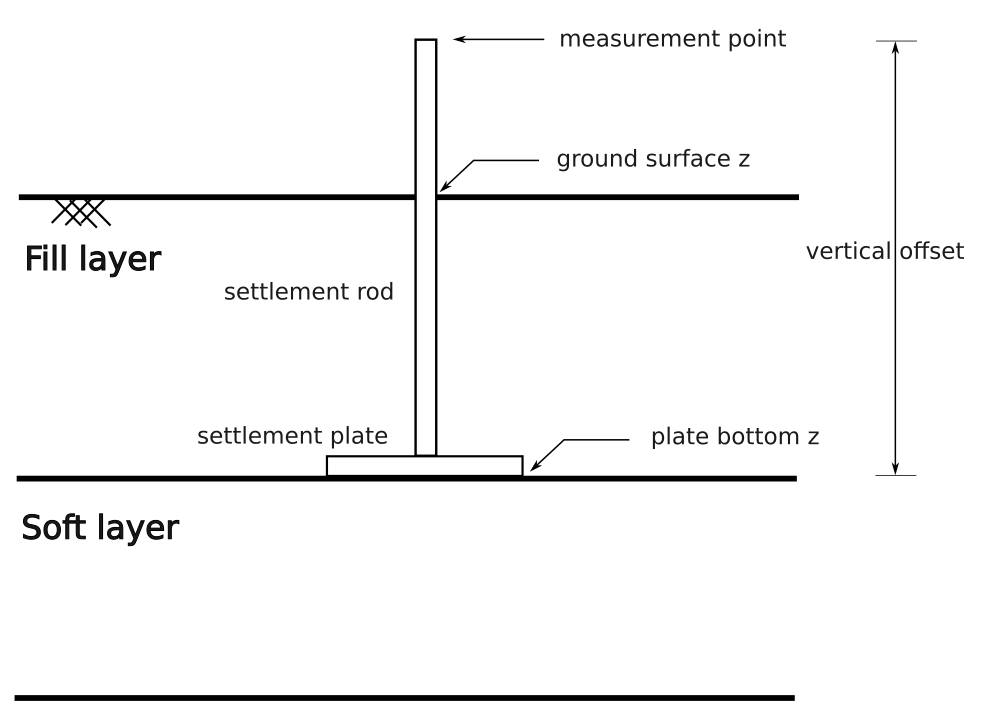
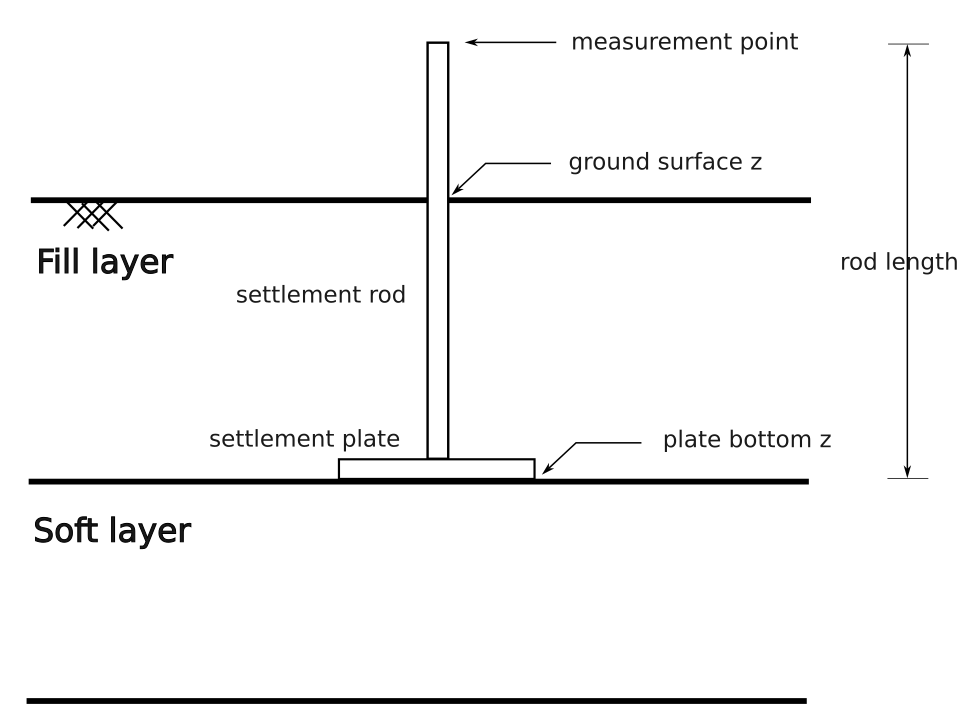
feat(settlement_rod_measurement_series): add SettlementRodMeasurementSeries class to represent a series of measurements for a single settlement rod and update docs

diff --git a/src/baec/measurements/settlement_rod_measurement_series.py b/src/baec/measurements/settlement_rod_measurement_series.py
@@ -1,0 +1,137 @@
+from __future__ import annotations
+
+from typing import List
+
+import pandas as pd
+
+from baec.measurements.settlement_rod_measurement import SettlementRodMeasurement
+
+
+class SettlementRodMeasurementSeries:
+    """
+    Represents a series of measurements for a single settlement rod.
+    """
+
+    def __init__(self, measurements: List[SettlementRodMeasurement]) -> None:
+        """
+        Initializes a SettlementRodMeasurementSeries object.
+
+        Parameters
+        ----------
+        measurements : List[SettlementRodMeasurement]
+            The list of measurements for the settlement rod.
+
+        Raises
+        ------
+        TypeError
+            If the input types are incorrect.
+        ValueError
+            If the list of measurements is empty.
+            If the measurements are not for the same project, device or object.
+        """
+
+        # Initialize all attributes using private setters.
+        self._set_measurements(measurements)
+
+    def _set_measurements(self, value: List[SettlementRodMeasurement]) -> None:
+        """Private setter for measurements attribute."""
+
+        # Check if the input is a list of SettlementRodMeasurement objects.
+        if not all(isinstance(item, SettlementRodMeasurement) for item in value):
+            raise TypeError(
+                "Expected 'List[SettlementRodMeasurement]' type for 'measurements' attribute."
+            )
+
+        # Check if the list is not empty.
+        if not value:
+            raise ValueError("Empty list not allowed for 'measurements' attribute.")
+
+        # Check that the measurements are for the same project.
+        projects = []
+        for measurement in value:
+            if measurement.project not in projects:
+                projects.append(measurement.project)
+        if len(projects) > 1:
+            raise ValueError("All measurements must be for the same project.")
+
+        # Check that the measurements are for the same device.
+        measurement_devices = []
+        for measurement in value:
+            if measurement.device not in measurement_devices:
+                measurement_devices.append(measurement.device)
+        if len(measurement_devices) > 1:
+            raise ValueError("All measurements must be for the same device.")
+
+        # Check that the measurements are for the same object.
+        object_ids = []
+        for measurement in value:
+            if measurement.object_id not in object_ids:
+                object_ids.append(measurement.object_id)
+        if len(object_ids) > 1:
+            raise ValueError("All measurements must be for the same measured object.")
+
+        # Organize the list of measurements in chronological order.
+        self._measurements = sorted(value, key=lambda x: x.date_time)
+
+    @property
+    def measurements(self) -> List[SettlementRodMeasurement]:
+        """
+        The list of measurements for the settlement rod.
+        They are organized in chronological order.
+        """
+        return self._measurements
+
+    def to_dataframe(self) -> pd.DataFrame:
+        """
+        Convert the series of measurements to a pandas DataFrame.
+
+        Returns
+        -------
+        pd.DataFrame
+            A pandas DataFrame with the measurements. The columns of the DataFrame are:
+            project_id, project_name, device_id, device_qr_code, object_id,
+            coordinate_epsg_code, date_time, x, y, z, rod_length, plate_bottom_z
+            plate_bottom_z_uncorrected, ground_surface_z, status, temperature,
+            voltage, comment.
+        """
+        # Initialize an empty DataFrame.
+        df = pd.DataFrame()
+
+        # Add columns to the DataFrame.
+        df["project_id"] = [measurement.project.id for measurement in self.measurements]
+        df["project_name"] = [
+            measurement.project.name for measurement in self.measurements
+        ]
+        df["device_id"] = [measurement.device.id for measurement in self.measurements]
+        df["device_qr_code"] = [
+            measurement.device.qr_code for measurement in self.measurements
+        ]
+        df["object_id"] = [measurement.object_id for measurement in self.measurements]
+        df["coordinate_epsg_code"] = [
+            measurement.coordinate_reference_system.to_epsg()
+            for measurement in self.measurements
+        ]
+        df["date_time"] = pd.to_datetime(
+            [measurement.date_time for measurement in self.measurements]
+        )
+        df["x"] = [measurement.x for measurement in self.measurements]
+        df["y"] = [measurement.y for measurement in self.measurements]
+        df["z"] = [measurement.z for measurement in self.measurements]
+        df["rod_length"] = [measurement.rod_length for measurement in self.measurements]
+        df["plate_bottom_z"] = [
+            measurement.plate_bottom_z for measurement in self.measurements
+        ]
+        df["plate_bottom_z_uncorrected"] = [
+            measurement.plate_bottom_z_uncorrected for measurement in self.measurements
+        ]
+        df["ground_surface_z"] = [
+            measurement.ground_surface_z for measurement in self.measurements
+        ]
+        df["status"] = [measurement.status.value for measurement in self.measurements]
+        df["temperature"] = [
+            measurement.temperature for measurement in self.measurements
+        ]
+        df["voltage"] = [measurement.voltage for measurement in self.measurements]
+        df["comment"] = [measurement.comment for measurement in self.measurements]
+
+        return df

diff --git a/tests/measurements/test_settlement_rod_measurement_series.py b/tests/measurements/test_settlement_rod_measurement_series.py
@@ -1,0 +1,115 @@
+import datetime
+from copy import deepcopy
+from typing import List
+
+import pyproj
+import pytest
+
+from baec.measurements.measurement_device import MeasurementDevice
+from baec.measurements.settlement_rod_measurement import SettlementRodMeasurement
+from baec.measurements.settlement_rod_measurement_series import (
+    SettlementRodMeasurementSeries,
+)
+from baec.project import Project
+
+
+def test_settlement_rod_measurement_series_init_with_valid_input(
+    example_settlement_rod_measurements: List[SettlementRodMeasurement],
+) -> None:
+    """Test initialization of SettlementRodMeasurementSeries with valid input."""
+
+    # Create series from measurements in chronological order.
+    series = SettlementRodMeasurementSeries(
+        measurements=example_settlement_rod_measurements
+    )
+
+    assert series.measurements == example_settlement_rod_measurements
+
+    # Check that the measurements are in chronological order.
+    assert sorted(series.measurements, key=lambda x: x.date_time) == series.measurements
+
+    # Create series from measurements in inverse chronological order.
+    series = SettlementRodMeasurementSeries(
+        measurements=example_settlement_rod_measurements[::-1]
+    )
+
+    assert series.measurements == example_settlement_rod_measurements
+
+    # Check that the measurements are in chronological order.
+    assert sorted(series.measurements, key=lambda x: x.date_time) == series.measurements
+
+
+def test_settlement_rod_measurement_series_init_with_invalid_measurements(
+    example_settlement_rod_measurements: List[SettlementRodMeasurement],
+) -> None:
+    """Test initialization of SettlementRodMeasurementSeries with invalid measurements."""
+
+    # Empty list
+    with pytest.raises(ValueError, match="measurements"):
+        SettlementRodMeasurementSeries(measurements=[])
+
+    # Incorrect type: One item is a string.
+    measurements = deepcopy(example_settlement_rod_measurements)
+    measurements[0] = "invalid"
+    with pytest.raises(TypeError):
+        SettlementRodMeasurementSeries(measurements=measurements)
+
+    # Different projects
+    measurements = deepcopy(example_settlement_rod_measurements)
+    measurements[0]._project = Project(id_="P-002", name="Project 2")
+
+    with pytest.raises(ValueError, match="project"):
+        SettlementRodMeasurementSeries(measurements=measurements)
+
+    # Different devices
+    measurements = deepcopy(example_settlement_rod_measurements)
+    measurements[0]._device = MeasurementDevice(id_="BR_004", qr_code="QR-004")
+
+    with pytest.raises(ValueError, match="device"):
+        SettlementRodMeasurementSeries(measurements=measurements)
+
+    # Different objects
+    measurements = deepcopy(example_settlement_rod_measurements)
+    measurements[0]._object_id = "ZB-20"
+
+    with pytest.raises(ValueError, match="object"):
+        SettlementRodMeasurementSeries(measurements=measurements)
+
+
+def test_settlement_rod_measurement_series_to_dataframe_method(
+    example_settlement_rod_measurements: List[SettlementRodMeasurement],
+) -> None:
+    """Test the to_dataframe method of SettlementRodMeasurementSeries."""
+    series = SettlementRodMeasurementSeries(
+        measurements=example_settlement_rod_measurements
+    )
+
+    df = series.to_dataframe()
+
+    # Check that the DataFrame has the correct number of rows.
+    assert len(df) == len(example_settlement_rod_measurements)
+
+    # Check that the DataFrame has the correct data.
+    for i, measurement in enumerate(example_settlement_rod_measurements):
+        assert df.iloc[i]["project_id"] == measurement.project.id
+        assert df.iloc[i]["device_id"] == measurement.device.id
+        assert df.iloc[i]["object_id"] == measurement.object_id
+        assert (
+            df.iloc[i]["coordinate_epsg_code"]
+            == measurement.coordinate_reference_system.to_epsg()
+        )
+        assert df.iloc[i]["date_time"] == measurement.date_time
+        assert df.iloc[i]["x"] == measurement.x
+        assert df.iloc[i]["y"] == measurement.y
+        assert df.iloc[i]["z"] == measurement.z
+        assert df.iloc[i]["rod_length"] == measurement.rod_length
+        assert df.iloc[i]["plate_bottom_z"] == measurement.plate_bottom_z
+        assert (
+            df.iloc[i]["plate_bottom_z_uncorrected"]
+            == measurement.plate_bottom_z_uncorrected
+        )
+        assert df.iloc[i]["ground_surface_z"] == measurement.ground_surface_z
+        assert df.iloc[i]["status"] == measurement.status.value
+        assert df.iloc[i]["temperature"] == measurement.temperature
+        assert df.iloc[i]["voltage"] == measurement.voltage
+        assert df.iloc[i]["comment"] == measurement.comment

diff --git a/tests/measurements/conftest.py b/tests/measurements/conftest.py
@@ -1,0 +1,57 @@
+import datetime
+from typing import List
+
+import pyproj
+import pytest
+
+from baec.measurements.measurement_device import MeasurementDevice
+from baec.measurements.settlement_rod_measurement import (
+    SettlementRodMeasurement,
+    SettlementRodMeasurementStatus,
+)
+from baec.project import Project
+
+
+@pytest.fixture
+def example_settlement_rod_measurements() -> List[SettlementRodMeasurement]:
+    project = Project(id_="P-001", name="Project 1")
+    device = MeasurementDevice(id_="BR_003", qr_code="QR-003")
+    object_id = "ZB-02"
+    date_time_start = datetime.datetime(2024, 4, 9, 4, 0, 0)
+    coordinate_reference_system = pyproj.CRS.from_user_input(28992)
+    x = 123340.266
+    y = 487597.154
+    z_start = 0.807
+    rod_length = 2.0
+    plate_bottom_z = -1.193
+    ground_surface_z = 0.419
+    status = SettlementRodMeasurementStatus.OK
+    temperature = 12.0
+    voltage = 4232
+    comment = "No comment"
+
+    measurements = []
+    for i in range(10):
+        z = z_start - 0.01 * i
+        date_time = date_time_start + datetime.timedelta(days=i)
+        measurements.append(
+            SettlementRodMeasurement(
+                project=project,
+                device=device,
+                object_id=object_id,
+                date_time=date_time,
+                coordinate_reference_system=coordinate_reference_system,
+                x=x,
+                y=y,
+                z=z,
+                rod_length=rod_length,
+                plate_bottom_z=plate_bottom_z,
+                ground_surface_z=ground_surface_z,
+                status=status,
+                temperature=temperature,
+                voltage=voltage,
+                comment=comment,
+            )
+        )
+
+    return measurements

diff --git a/docs/conf.py b/docs/conf.py
@@ -37,6 +37,7 @@ extensions = [
     "sphinx.ext.mathjax",
     "sphinx_autodoc_typehints",
     "matplotlib.sphinxext.plot_directive",
+    "enum_tools.autoenum",
 ]
 
 # Add any paths that contain templates here, relative to this directory.

diff --git a/docs/tree/reference.rst b/docs/tree/reference.rst
@@ -4,21 +4,62 @@ Reference
 =========
 
 .. _settlementRodMeasurement:
+
 Settlement Rod Measurement
 ----------------------------
 
-A settlement rod device consists of a rod and a (bottom) settlement plate (see figure below). The measurements are taken at the top of the rod (i.e. the `measurement point`) 
-and since the `vertical offset` between the measurement point is known, the settlement of at the bottom of the plate `plate bottom z` can be also derived. Optionally, 
-the `ground surface z` can be measured by performing for instance radar measurements. 
+A settlement rod device consists of a rod and a (bottom) settlement plate (see figure below). The measurements are taken at the top of the rod (i.e. the `measurement_point`) 
+and at the `ground surface` and since the `rod length` is known, the settlement of at the bottom of the plate (i.e. `plate_bottom_z`) can be also derived.
 
 .. image:: figures/settlement_rod.png
 
 The class `SettlementRodMeasurement` presented below stores the data of a single settlement rod measurement.
 
-.. autoclass:: baec.measurements.settlement_rod_measurements.SettlementRodMeasurement
+.. autoclass:: baec.measurements.settlement_rod_measurement.SettlementRodMeasurement
     :members:
     :inherited-members:
     :member-order: bysource
 
     .. automethod:: __init__
     
+.. autoenum:: baec.measurements.settlement_rod_measurement.SettlementRodMeasurementStatus
+    :members:
+
+
+.. _settlementRodMeasurementSeries:
+
+Settlement Rod Measurement Series
+---------------------------------
+
+.. autoclass:: baec.measurements.settlement_rod_measurement_series.SettlementRodMeasurementSeries
+    :members:
+    :inherited-members:
+    :member-order: bysource
+
+    .. automethod:: __init__
+
+
+.. _measurementDevice:
+
+Measurement Device
+------------------
+
+.. autoclass:: baec.measurements.measurement_device.MeasurementDevice
+    :members:
+    :inherited-members:
+    :member-order: bysource
+
+    .. automethod:: __init__
+
+.. _measurementProject:
+
+Project
+-------
+
+.. autoclass:: baec.project.Project
+    :members:
+    :inherited-members:
+    :member-order: bysource
+
+    .. automethod:: __init__
+
